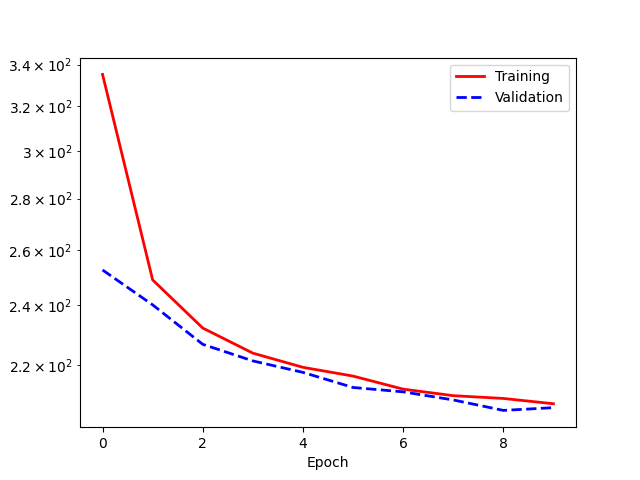
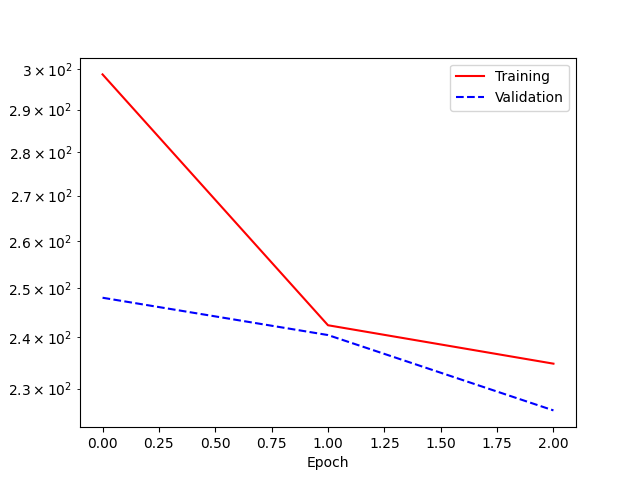
My local changes before merging model_registry update

diff --git a/train_for_plots.py b/train_for_plots.py
@@ -1,0 +1,195 @@
+#!/usr/bin/env python
+# train_for_plots.py  – layer names fixed for checkpoint loading
+
+import os, random, torch, numpy as np, matplotlib.pyplot as plt
+import torch.nn as nn
+from tqdm import tqdm
+from torch.utils.data import DataLoader, RandomSampler
+from utils.jet_dataset import JetDataset
+from wnae import WNAE
+
+# ------------------- Config ------------------- #
+plot_epochs   = [0, 2, 4]
+DATA_PATH     = "/uscms/home/roguljic/nobackup/AnomalyTagging/el9/AutoencoderTraining/data/merged_qcd_train_scaled.h5"
+INPUT_DIM     = 256
+CHECKPOINT    = f"wnae_checkpoint_{INPUT_DIM}.pth"
+LOSS_PLOT_PNG = "plots/training_loss_plot.png"
+
+BATCH_SIZE    = 256
+NUM_SAMPLES   = 2 ** 15
+LR            = 1e-3
+N_EPOCHS      = 3
+DEVICE        = torch.device("cpu")
+
+WNAE_PARAMS = dict(
+    sampling="pcd", n_steps=10, step_size=None, noise=0.2, temperature=0.05,
+    bounds=(-3., 3.), mh=False, initial_distribution="gaussian",
+    replay=True, replay_ratio=0.95, buffer_size=10000,
+)
+# ------------------------------------------------
+
+class Encoder(nn.Module):
+    def __init__(self, input_size):
+        super().__init__()
+        hidden = input_size * 2
+        self.layer1 = nn.Linear(input_size, hidden)
+        self.layer2 = nn.Linear(hidden, hidden)
+
+    def forward(self, x):
+        x = torch.relu(self.layer1(x))
+        x = torch.relu(self.layer2(x))
+        return x
+
+class Decoder(nn.Module):
+    def __init__(self, output_size):
+        super().__init__()
+        hidden = output_size * 2
+        self.layer1 = nn.Linear(hidden, hidden)
+        self.layer2 = nn.Linear(hidden, output_size)
+
+    def forward(self, x):
+        x = torch.relu(self.layer1(x))
+        return self.layer2(x)   # no activation here
+
+# ------------------------------------------------------------------ #
+def run_training(model, optimizer, loss_kind, n_epochs,
+                 train_loader, val_loader, plot_epochs,
+                 start_epoch=0, tr_losses=None, val_losses=None,
+                 mcmc_samples_list=None):
+    tr_losses         = tr_losses or []
+    val_losses        = val_losses or []
+    mcmc_samples_list = mcmc_samples_list or []
+    plot_epochs       = set(plot_epochs)
+
+    for epoch in range(start_epoch, start_epoch + n_epochs):
+        # --- training loop ---
+        model.train()
+        total_train_loss = 0
+        n_train_batches = 0
+        bar_fmt = f"Epoch {epoch+1}/{start_epoch + n_epochs}: " + "{l_bar}{bar:10}| {n_fmt}/{total_fmt} [{elapsed}<{remaining}]"
+        for batch in tqdm(train_loader, bar_format=bar_fmt):
+            x = batch[0].to(DEVICE)
+            optimizer.zero_grad()
+            if   loss_kind == "wnae":
+                loss, out = model.train_step(x)
+            elif loss_kind == "nae":
+                loss, out = model.train_step_nae(x)
+            else:
+                loss, out = model.train_step_ae(x, run_mcmc=True, mcmc_replay=True)
+            loss.backward()
+            optimizer.step()
+            total_train_loss += out["loss"]
+            n_train_batches += 1
+        tr_losses.append(total_train_loss / n_train_batches)
+
+        # --- validation loop ---
+        model.eval()
+        total_val_loss = 0
+        n_val_batches = 0
+        for i_batch, batch in enumerate(val_loader):
+            x = batch[0].to(DEVICE)
+            if   loss_kind == "wnae":
+                vdict = model.validation_step(x)
+            elif loss_kind == "nae":
+                vdict = model.validation_step_nae(x)
+            else:
+                vdict = model.validation_step_ae(x, run_mcmc=True)
+            total_val_loss += vdict["loss"]
+            n_val_batches += 1
+
+            # grab one batch of data + MCMC samples
+            if (epoch in plot_epochs) and (i_batch == 0):
+                data_samples = x.cpu()
+                mcmc_samples = vdict["mcmc_data"]["samples"][-1].cpu()
+                mcmc_samples_list.append((data_samples, mcmc_samples))
+
+        val_losses.append(total_val_loss / n_val_batches)
+
+    return tr_losses, val_losses, mcmc_samples_list
+# ------------------------------------------------------------------ #
+
+def plot_losses(tr, val, png_path):
+    os.makedirs(os.path.dirname(png_path), exist_ok=True)
+    epochs = list(range(len(tr)))
+    plt.figure()
+    plt.plot(epochs, tr,  label="Training",   color="red")
+    plt.plot(epochs, val,  label="Validation", color="blue", ls="--")
+    plt.yscale("log")
+    plt.xlabel("Epoch"); plt.ylabel("Loss"); plt.legend()
+    plt.savefig(png_path)
+    plt.close()
+
+def quick_plots(data, mcmc, tag):
+    os.makedirs("plots", exist_ok=True)
+    rnd = random.Random(0)
+    # four 1-D histograms
+    for feat in rnd.sample(range(data.shape[1]), 4):
+        plt.hist(data[:, feat], 50, histtype='step', label='data')
+        plt.hist(mcmc[:, feat], 50, histtype='step', label='MCMC')
+        plt.legend(); plt.title(f'{tag} — feat {feat}')
+        plt.savefig(f'plots/{tag}_feat{feat}.png'); plt.close()
+    # two 2-D scatters
+    for _ in range(2):
+        x, y = rnd.sample(range(data.shape[1]), 2)
+        plt.scatter(data[:, x], data[:, y], s=2, alpha=.3, label='data')
+        plt.scatter(mcmc[:, x], mcmc[:, y], s=2, alpha=.3, label='MCMC')
+        plt.legend(); plt.title(f'{tag} — ({x},{y})')
+        plt.savefig(f'plots/{tag}_{x}_{y}.png'); plt.close()
+
+# ------------------- Main ------------------- #
+def main():
+    # prepare datasets
+    full_ds  = JetDataset(DATA_PATH)
+    idx      = np.random.permutation(len(full_ds))
+    split    = int(0.8 * len(idx))
+    train_ds = JetDataset(DATA_PATH, indices=idx[:split],  input_dim=INPUT_DIM)
+    val_ds   = JetDataset(DATA_PATH, indices=idx[split:], input_dim=INPUT_DIM)
+
+    train_loader = DataLoader(train_ds, batch_size=BATCH_SIZE,
+                              sampler=RandomSampler(train_ds, replacement=True, num_samples=NUM_SAMPLES))
+    val_loader   = DataLoader(val_ds,   batch_size=BATCH_SIZE,
+                              sampler=RandomSampler(val_ds,   replacement=True, num_samples=NUM_SAMPLES))
+
+    # build model + optimizer
+    model = WNAE(encoder=Encoder(INPUT_DIM), decoder=Decoder(INPUT_DIM), **WNAE_PARAMS).to(DEVICE)
+    optimizer = torch.optim.AdamW(model.parameters(), lr=LR)
+
+    # optionally resume
+    start_epoch = 0
+    tr_losses, val_losses = [], []
+    if os.path.exists(CHECKPOINT):
+        ckpt = torch.load(CHECKPOINT, map_location=DEVICE)
+        model.load_state_dict(ckpt["model_state_dict"])
+        optimizer.load_state_dict(ckpt["optimizer_state_dict"])
+        start_epoch   = ckpt["epoch"]
+        tr_losses     = ckpt["training_losses"]
+        val_losses    = ckpt["validation_losses"]
+        print(f"Resumed from epoch {start_epoch}")
+
+    # run training & collect samples
+    tr_losses, val_losses, mcmc_list = run_training(
+        model, optimizer, "wnae", N_EPOCHS,
+        train_loader, val_loader,
+        plot_epochs=plot_epochs,
+        start_epoch=start_epoch,
+        tr_losses=tr_losses,
+        val_losses=val_losses,
+        mcmc_samples_list=[],
+    )
+
+    # save loss plot + checkpoint
+    plot_losses(tr_losses, val_losses, LOSS_PLOT_PNG)
+    torch.save({
+        "epoch": start_epoch + N_EPOCHS,
+        "model_state_dict": model.state_dict(),
+        "optimizer_state_dict": optimizer.state_dict(),
+        "training_losses": tr_losses,
+        "validation_losses": val_losses,
+    }, CHECKPOINT)
+
+    # finally, write the quick histograms & scatters
+    for ep, (d, m) in zip(plot_epochs, mcmc_list):
+        quick_plots(d.numpy(), m.numpy(), tag=f'epoch{ep}')
+
+if __name__ == "__main__":
+    main()

diff --git a/viz_features.py b/viz_features.py
@@ -1,0 +1,44 @@
+#!/usr/bin/env python
+import h5py, numpy as np, matplotlib.pyplot as plt, random, argparse, os, mplhep as hep
+hep.style.use("CMS")
+
+def load(fname):
+    with h5py.File(fname, "r") as f:
+        return f["X"][:]
+
+def main(pos_file, neg_file, outdir, n_1d=6, n_2d=3, seed=42):
+    rng = random.Random(seed)
+    pos, neg = load(pos_file), load(neg_file)
+    ndim = pos.shape[1]
+    os.makedirs(outdir, exist_ok=True)
+
+    # ---- 1-D histograms
+    one_d = rng.sample(range(ndim), n_1d)
+    for i in one_d:
+        plt.figure()
+        plt.hist(pos[:, i], bins=100, density=True, histtype="step", label="data")
+        plt.hist(neg[:, i], bins=100, density=True, histtype="step", label="MCMC")
+        plt.xlabel(f"feature {i}")
+        plt.ylabel("p.d.f.")
+        plt.legend(); plt.tight_layout()
+        plt.savefig(f"{outdir}/hist_{i}.png"); plt.close()
+
+    # ---- 2-D scatters
+    two_d = [rng.sample(range(ndim), 2) for _ in range(n_2d)]
+    for i, j in two_d:
+        plt.figure()
+        plt.scatter(pos[:, i], pos[:, j], s=3, alpha=0.3, label="data")
+        plt.scatter(neg[:, i], neg[:, j], s=3, alpha=0.3, label="MCMC")
+        plt.xlabel(f"feat {i}"); plt.ylabel(f"feat {j}")
+        plt.legend(); plt.tight_layout()
+        plt.savefig(f"{outdir}/scatter_{i}_{j}.png"); plt.close()
+
+if __name__ == "__main__":
+    p = argparse.ArgumentParser()
+    p.add_argument("--pos", required=True, help="H5 with training data")
+    p.add_argument("--neg", required=True, help="H5 with MCMC samples")
+    p.add_argument("--outdir", default="plots")
+    p.add_argument("--n1d", type=int, default=6)
+    p.add_argument("--n2d", type=int, default=3)
+    args = p.parse_args()
+    main(args.pos, args.neg, args.outdir, args.n1d, args.n2d)
